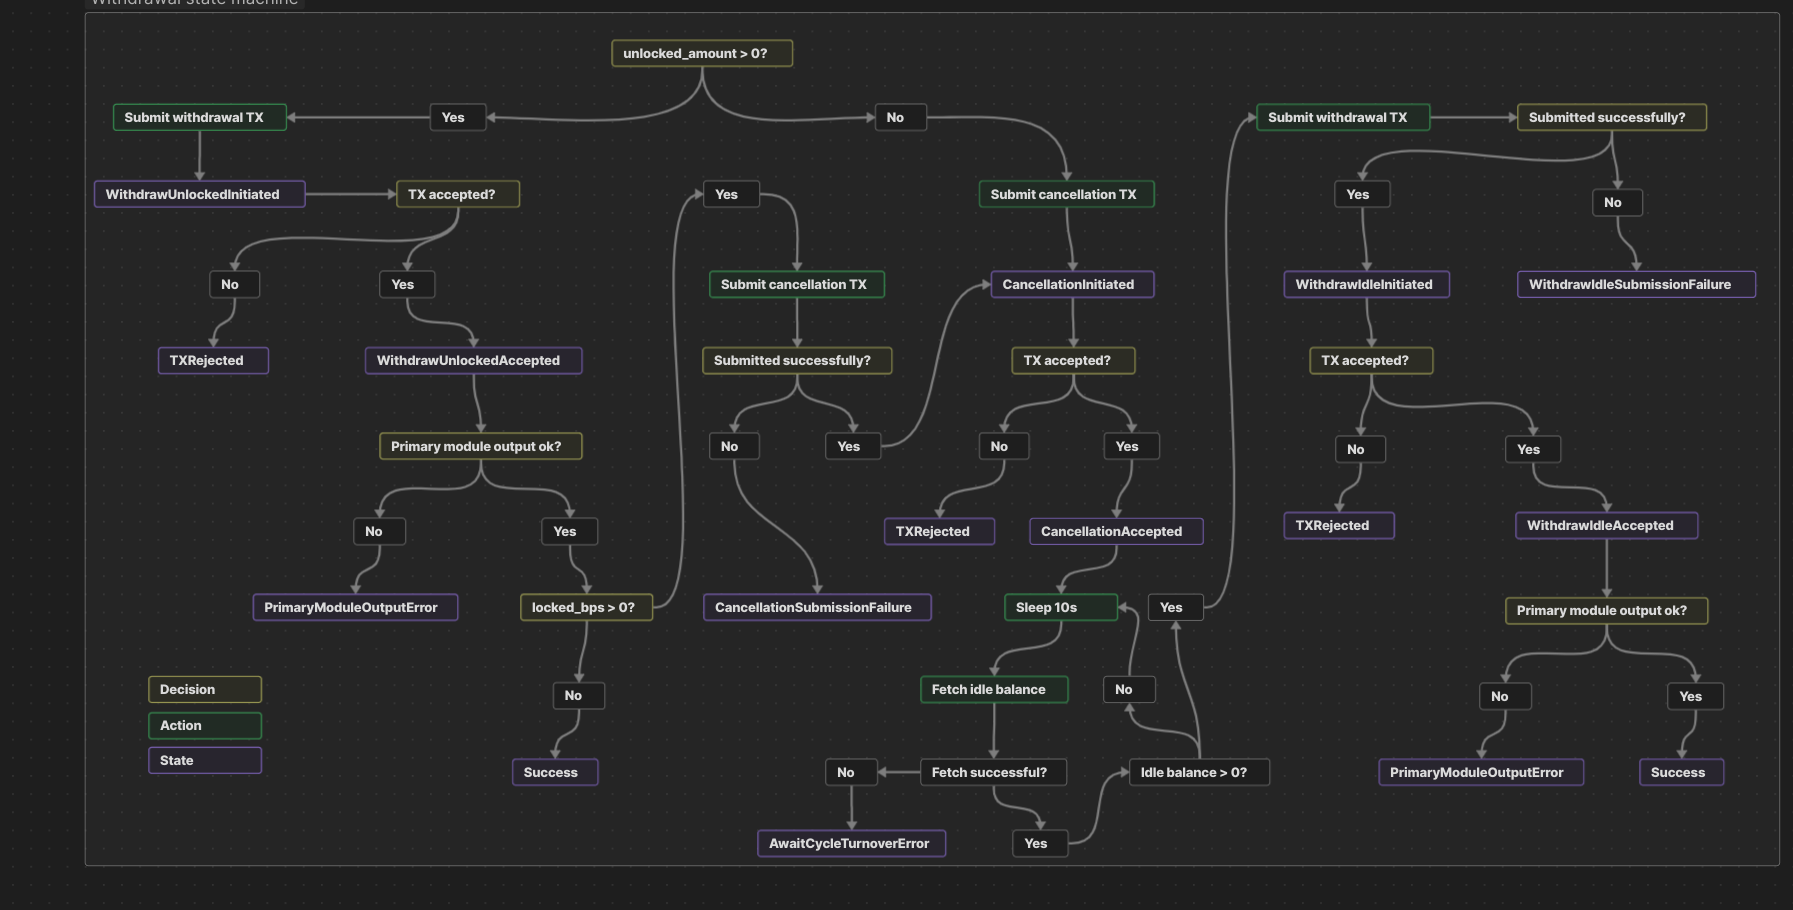
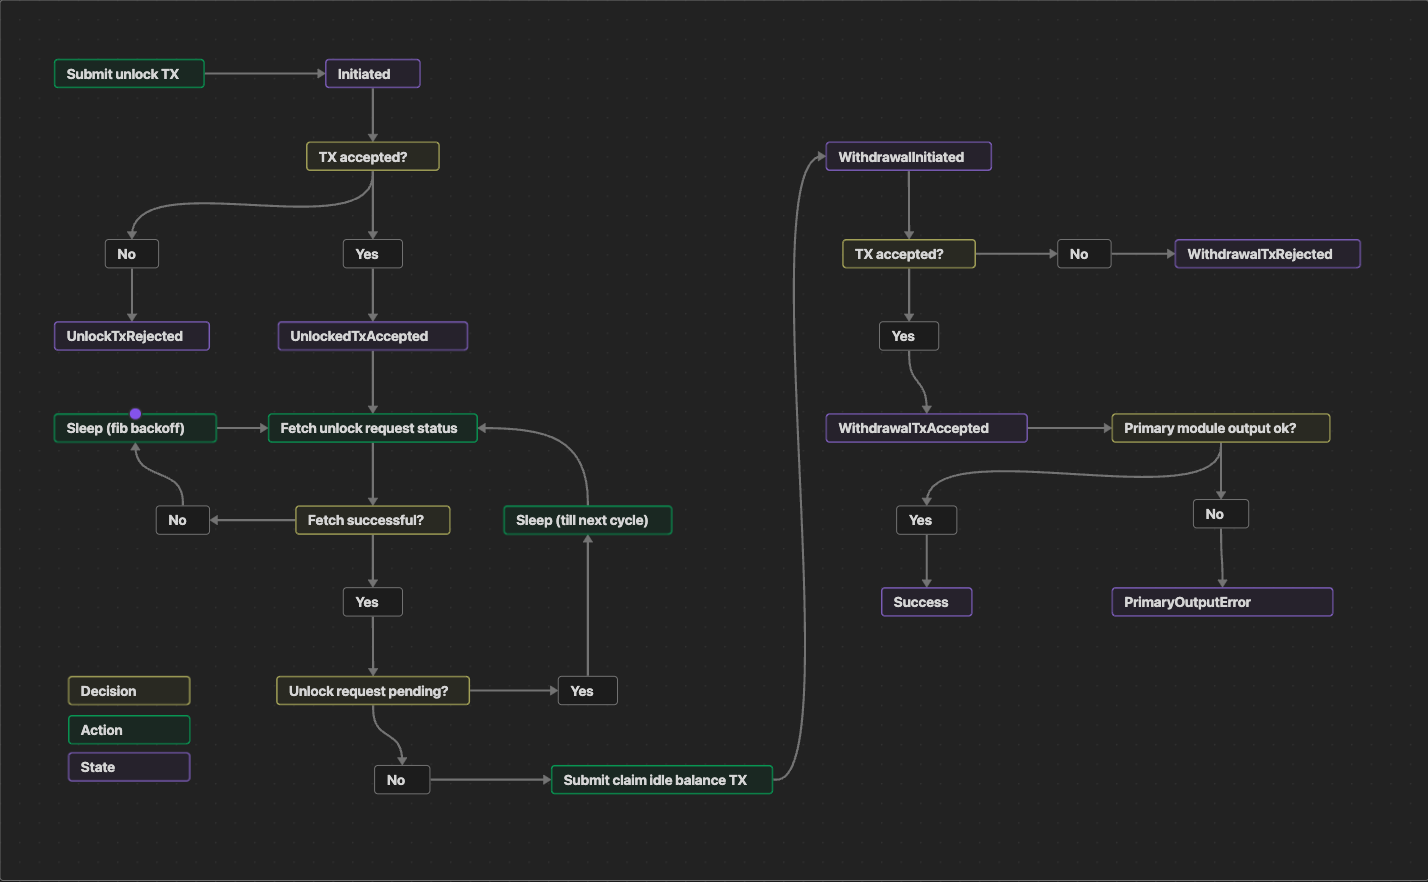
chore: update withdrawal flowchart as README

diff --git a/modules/stability-pool/README.md b/modules/stability-pool/README.md
@@ -12,8 +12,6 @@ Under normal working conditions, seekers can expect to maintain the US dollar va
   - [Example scenario](#example-scenario)
   - [Market dynamics](#market-dynamics)
 - [Technical overview](#technical-overview)
-  - [Module output item](#module-output-item)
-  - [Module input item](#module-input-item)
   - [Module consensus item](#module-consensus-item)
   - [Oracle solution](#oracle-solution)
   - [Withdrawal flow](#withdrawal-flow)
@@ -68,65 +66,6 @@ The failure point depends on the collateralization ratio of the stability provid
 
 ## Technical overview
 
-### Module output item
-
-Depositing funds into the stability pool is technically just a fedimint transaction where the input comes from the e-cash module and the outputs come from the stability pool module and the e-cash module (in case of any change). We define the `StabilityPoolOutput` struct as follows:
-
-```rust
-#[derive(Clone, Debug, Hash, PartialEq, Encodable, Decodable)]
-pub struct StabilityPoolOutput {
-    pub account: XOnlyPublicKey, // used to identify
-    pub intended_action: IntendedAction,
-}
-
-#[derive(Clone, Debug, Hash, PartialEq, Encodable, Decodable)]
-pub enum IntendedAction {
-    Seek(Seek),
-    Provide(Provide),
-    CancelRenewal(CancelRenewal),
-    UndoCancelRenewal,
-}
-
-#[derive(Clone, Debug, Hash, PartialEq, Eq, Encodable, Decodable, Serialize, Deserialize)]
-pub struct Seek(pub Amount);
-
-#[derive(Clone, Debug, Hash, PartialEq, Eq, Encodable, Decodable, Serialize, Deserialize)]
-pub struct Provide {
-    pub amount: Amount,
-    pub min_fee_rate: u64,
-}
-
-#[derive(Clone, Debug, Hash, PartialEq, Eq, Encodable, Decodable, Serialize, Deserialize)]
-pub struct CancelRenewal {
-    pub bps: u32,
-}
-```
-
-The user's intention behind the deposit must be specified using the `IntendedAction` enum out of the following 4 options:
-1. `Seek`: means deposit the specified msat amount for staging a seek. A seek is accepted iff the user does NOT already have staged provides, locked provides, or staged cancellation. Seeks are assigned auto-incrementing sequences by the guardians.
-2. `Provide`: means deposit the specified msat amount for staging a provide with the specified min fee rate (in PPB). A provide is accepted iff the user does NOT already have staged seeks, locked seeks, or staged cancellation. Provides are assigned auto-incrementing sequences by the guardians.
-3. `CancelRenewal`: means stage a cancellation for the specified % (expressed in basis points) of the user's locked funds. This means that when the current cycle ends, the specified portion of the user's position is not auto-renewed, and is instead moved to their "idle balance" within the stability pool, waiting to be claimed by them later in a transaction. A % unit is used as it works for both seeks and provides (since provider doesn't know either the msats or the $ value that they will receive when the current cycle ends). A cancellation is accepted iff the user does NOT have any staged seeks or provides or staged cancellation AND has at least one locked seek or provide (but not both).
-4. `UndoCancelRenewal`: means cancel any staged cancellation because the user changed their mind. Naturally the user must have a staged cancellation.
-
-### Module input item
-
-Withdrawing unlocked funds from the stability pool is technically just a fedimint transaction where the input comes from the stability pool module and the output comes from the e-cash module. We define the `StabilityPoolInput` struct as follows:
-
-```rust
-#[derive(Clone, Debug, Hash, PartialEq, Encodable, Decodable)]
-pub struct StabilityPoolInput {
-    pub account: XOnlyPublicKey,
-    pub amount: Amount,
-}
-```
-
-A user's holdings inside the stability pool are distributed into 3 categories:
-1. Idle balance: these are funds that were recovered by canceling auto renewal. They can be freely withdrawn.
-2. Staged balance: the sum of any staged seeks or provides that have not been locked yet. They can be freely withdrawn.
-3. Locked balance: the sum of any locked seeks or provides. This is not a realized amount, meaning it can fluctuate until the end of the cycle, when the locks are settled and paid out. This amount cannot be withdrawn, and the user must stage a cancellation so that when the cycle ends, a % (could be 100%) of the final payout is moved to idle balance instead of being re-staged and then re-locked.
-
-The `amount` specified in the `StabilityPoolInput` must be less than or equal to the user's total unlocked balance, which is defined as the sum of idle balance and staged balance.
-
 ### Module consensus item
 
 The stability pool's contribution to consensus is minimal and contains only the data needed to progress from one cycle to the next. The philosophy here is to only include the bare minimum needed so that everything else can be deterministically calculated by each guardian. With that in mind, the `StabilityPoolConsensusItem` struct is defined as follows:
@@ -155,35 +94,11 @@ The median value across all returned values is chosen. The oracle is considered 
 
 ### Withdrawal flow
 
-To make integration with front-ends easier, we use a single `withdraw(unlocked_msats, locked_bps)` function that can extract both unlocked and locked balances, and implicitly wait for cycle turnover for the locked balances to be freed up.
+To make integration with front-ends easier, we use a single `withdraw(ALL_or_fiat_amount)` function that can extract both unlocked and locked balances, and implicitly wait for cycle turnover for the locked balances to be freed up. There are always 2 steps (transactions) in the withdrawal flow.
+1. The first TX is the "unlocking" transaction. This TX ensures that the amount desired by the client (either `ALL` or some `FiatAmount`) is unlocked as soon as possible. Some or all of it may be satisfied using any staged deposits, and the rest, if any, will need to await the cycle turnover.
+2. The second TX is the "withdrawal" transaction. This TX is only issued once the unlocking request from the previous step has been fully satisfied. This TX actually brings back msats as ecash from the server.
 
-`unlocked_msats` are extracted from staged seeks (pending deposits). `locked_bps` is extracted from locked seeks (completed deposits). The overall operation only completes when both parts have completed. **Note that we can't delay withdrawing staged balance under the hood as it may otherwise become locked. Instead we focus on the overall operation lifecycle as far as UX is concerned.**
-
-#### Case 1: only pending deposits
-- Front-end calls `withdraw(unlocked_msats, 0)` with the exact amount of msats that the user wishes to withdraw. User input can be local currency but front-end can translate to msats
-- Operation completes as soon as transaction is processed by federation
-
-#### Case 2: only completed deposits
-- Front-end calls `withdraw(0, locked_bps)` with a BPS equivalent of what the user wishes to unlock and withdraw. User input can be local currency but front-end can translate to BPS
-- Operation lifecycle:
-  - cancellation staged (first TX processed by federation)
-  - current cycle ends and cancellation applied
-  - idle balance swept (second TX processed by federation
-
-#### Case 3: pending deposits + completed deposits
-- Front-end calls `withdraw(unlocked_msats, locked_bps)` as per follows:
-  - User enters total they would like to withdraw in local currency, say `total_withdrawal_fiat`
-  - Front-end converts total pending deposit msat amount into local currency, say `total_staged_fiat`
-  - Front-end calculates `min(total_staged_fiat, total_withdrawal_fiat)`, and converts this to msats. This becomes `unlocked_msats`.
-  - If `total_withdrawal_fiat` > `total_staged_fiat`, front-end calculates the difference, `total_withdrawal_fiat - total_staged_fiat`, say `rem_withdrawal_fiat`.
-  - Front-end uses current fiat value of locked seeks, say `total_locked_fiat`, and determines `rem_withdrawal_fiat * 10_000 / total_locked_fiat`. This is `locked_bps`.
-- Operation lifecycle:
-  - staged balance withdrawn (first TX processed by federation)
-  - cancellation staged (second TX process by federation)
-  - current cycle ends and cancellation applied
-  - idle balance swept (third TX processed by federation)
-
-The diagram below captures the state machine used for the withdrawal operation. The assumption here is that at least one of `unlocked_msats` and `locked_bps` must be non-zero.
+The diagram below captures the state machine used for the withdrawal operation.
 
 ![Withdrawal operation state machine](./withdrawal_state_machine.png)
 
@@ -203,9 +118,9 @@ We take the locked seeks and provides (if any) that were produced at the start o
 
 For settling the seeks, the quantity we have to preserve is the product of (total msats across all the locked seeks) and (the start price of bitcoin), that is `total_seek_msats * start_price`. Doing ceiling division by `end_price` gives us the new msat amount (`msat_needed_for_seeks`) to keep the product constant. We take the min of `msat_needed_for_seeks` and `total_msats_available` (sum of all the msats across all the locked seeks and provides) to ensure we don't overshoot what we have. This is what's distributed across the seeks to settle them, and whatever is left goes to the provides (could be 0).
 
-#### Step 3: Apply staged cancellations (cancel auto-renewals)
+#### Step 3: Process unlock requests
 
-Staged cancellations from providers and seekers, if any, would have been received earlier, awaiting the cycle turnover to free up funds. We iterate through all the staged cancellations, and delete settled locks (partially or wholly depending on the basis points specified as part of the staged cancellation). Note that the scope of a cancellation is an account—not a specific seek or provide. So if an account has 3 locked seeks and they wish to cancel 50% (5_000 BPS) of their locked seeks, we cancel 50% of the total msats across all 3 seeks from being locked again in the next cycle. When cancelling we go in reverse order of sequence to preserve more of the older seeks/provides (which would have higher priority in the matching algorithm).
+Unlock requests from providers and seekers, if any, would have been received earlier, awaiting the cycle turnover to free up funds. We iterate through all the unlock requests, and delete settled locks (partially or wholly depending on the fiat_amount specified as part of the unlock request). Note that the scope of an unlock request is an account—not a specific seek or provide. So if an account has 3 locked seeks and they wish to cancel half of their locked seeks, we cancel 50% of the total msats across all 3 seeks from being locked again in the next cycle. When unlocking we go in reverse order of sequence to preserve more of the older seeks/provides (which would have higher priority in the matching algorithm).
 
 #### Step 4: Restage remaining locks
 
